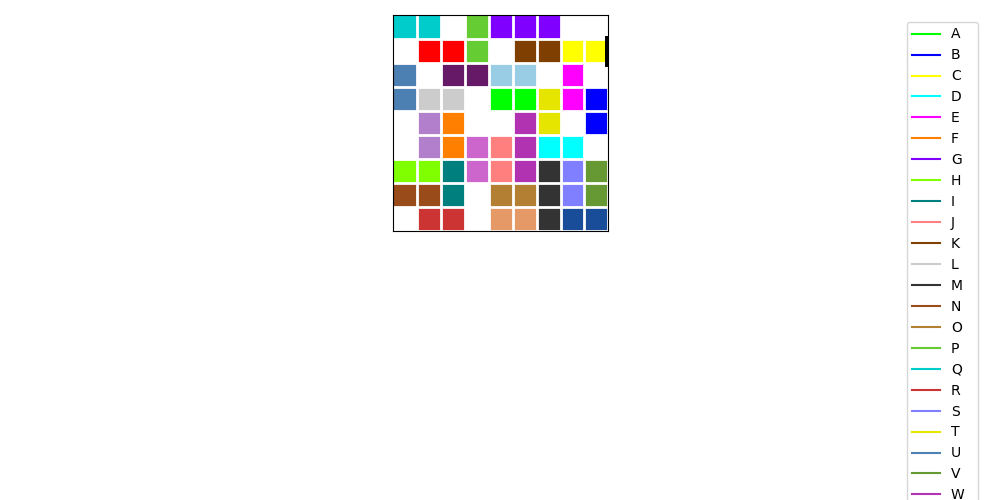
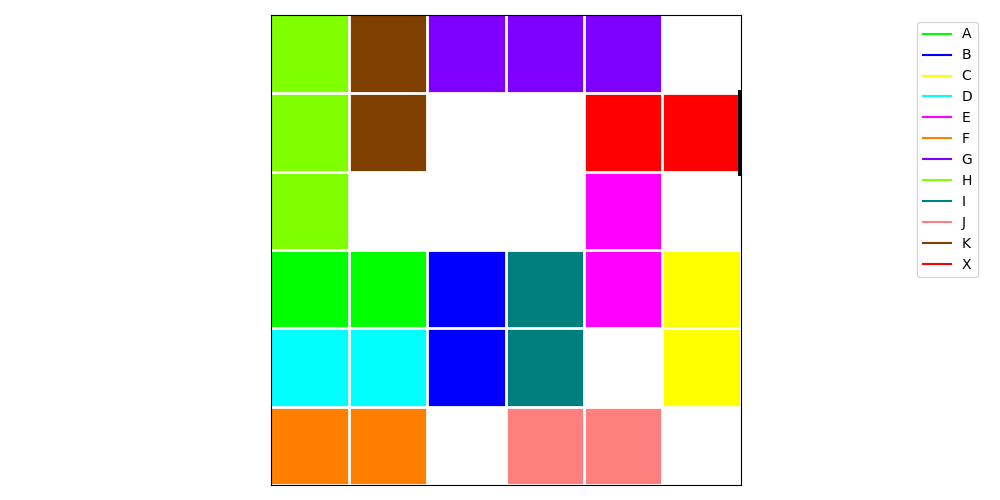
Added method to board_setup to generate random board

diff --git a/code_files/classes/board_setup.py b/code_files/classes/board_setup.py
@@ -1,10 +1,10 @@
 import numpy as np
 import itertools
 import time
+from ..algorithms import randomise
 from ..classes.queue import Queue as Queue
 from ..classes.stack import Stack as Stack
 from ..visualisation.visualize import plot as visualize
-from ..algorithms.randomise import random_step
 from ..algorithms.no_reverse import random_without_reverse
 from ..algorithms.depth_search import depth_search
 
@@ -216,7 +216,7 @@ class Board:
         while not self.is_won():
             #self.print_board()
             iterations += 1
-            name, movement, position = random_step(self)
+            name, movement, position = randomise.random_step(self)
             vehicle = self.find_vehicle(name)
             self.update_positions_set(vehicle, position)
             #time.sleep(0.05)
@@ -264,7 +264,10 @@ class Board:
 
     def astar_solve(self):
         pass
-        
+    
+    def generate_random_board(self, num_cars):
+        df_board_start = randomise.generate_random_board(self.size, num_cars)
+        self.setup_board(df_board_start)
 
     def is_won(self):
         """
@@ -292,5 +295,5 @@ class Board:
         Returns:
         - list: A list representing the RGB color.
         """
-        self.colours = [[0, 1, 0], [0, 0, 1], [1, 1, 0], [0, 1, 1], [1, 0, 1], [1, 0.5, 0], [0.5, 0, 1], [0.5, 1, 0], [0, 0.5, 0.5], [1, 0.5, 0.5], [0.5, 0.25, 0], [0.8, 0.8, 0.8],  [0.2, 0.2, 0.2], [0.6, 0.3, 0.1],  [0.7, 0.5, 0.2], [0.4, 0.8, 0.2], [0, 0.8, 0.8], [0.8, 0.2, 0.2], [0.5, 0.5, 1], [0.9, 0.9, 0], [0.3, 0.5, 0.7],  [0.4, 0.6, 0.2], [0.7, 0.2, 0.7], [0.6, 0.8, 0.9], [0.8, 0.4, 0.8], [0.9, 0.6, 0.4], [0.1, 0.3, 0.6], [0.7, 0.5, 0.8], [0.4, 0.1, 0.4], [0.9, 0.9, 0.5], [0.6, 0.6, 0.6], [0.1, 0.5, 0.3], [0.9, 0.2, 0.5], [0.8, 0.7, 0.1], [0.2, 0.7, 0.4], [0.5, 0.5, 0.7], [0.7, 0.5, 0.5], [0.4, 0.2, 0.6], [0.8, 0.3, 0.3], [0.4, 0.8, 0.7],  [0.8, 0.6, 0.2], [0.1, 0.6, 0.3], [0.9, 0.4, 0.6],[0.3, 0.1, 0.8],[0.5, 0.7, 0.9],]
+        self.colours = [[0, 1, 0], [0, 0, 1], [1, 1, 0], [0, 1, 1], [1, 0, 1], [1, 0.5, 0], [0.5, 0, 1], [0.5, 1, 0], [0, 0.5, 0.5], [1, 0.5, 0.5], [0.5, 0.25, 0], [0.8, 0.8, 0.8],  [0.2, 0.2, 0.2], [0.6, 0.3, 0.1],  [0.7, 0.5, 0.2], [0.4, 0.8, 0.2], [0, 0.8, 0.8], [0.8, 0.2, 0.2], [0.5, 0.5, 1], [0.9, 0.9, 0], [0.3, 0.5, 0.7],  [0.4, 0.6, 0.2], [0.7, 0.2, 0.7], [0.6, 0.8, 0.9], [0.8, 0.4, 0.8], [0.9, 0.6, 0.4], [0.1, 0.3, 0.6], [0.7, 0.5, 0.8], [0.4, 0.1, 0.4], [0.9, 0.9, 0.5], [0.6, 0.6, 0.6], [0.1, 0.5, 0.3], [0.9, 0.2, 0.5], [0.8, 0.7, 0.1], [0.2, 0.7, 0.4], [0.5, 0.5, 0.7], [0.7, 0.5, 0.5], [0.4, 0.2, 0.6], [0.8, 0.3, 0.3], [0.4, 0.8, 0.7],  [0.8, 0.6, 0.2], [0.1, 0.6, 0.3], [0.9, 0.4, 0.6],[0.3, 0.1, 0.8],[0.5, 0.7, 0.9], [0.7, 0.3, 0.5], [0.2, 0.9, 0.5], [0.6, 0.1, 0.9], [0.3, 0.8, 0.1], [0.9, 0.3, 0.2], [0.2, 0.4, 0.9], [0.5, 0.9, 0.3], [0.1, 0.7, 0.8], [0.8, 0.1, 0.1], [0.3, 0.4, 0.5], [0.7, 0.9, 0.4], [0.4, 0.3, 0.3], [0.9, 0.7, 0.7], [0.2, 0.8, 0.6], [0.6, 0.9, 0.8], [0.1, 0.2, 0.3], [0.5, 0.3, 0.9], [0.8, 0.9, 0.1], [0.3, 0.6, 0.8], [0.9, 0.1, 0.9], [0.2, 0.1, 0.7], [0.7, 0.8, 0.3], [0.4, 0.7, 0.1], [0.9, 0.8, 0.6], [0.2, 0.5, 0.8], [0.6, 0.4, 0.3], [0.1, 0.4, 0.8], [0.8, 0.1, 0.6], [0.3, 0.9, 0.9], [0.7, 0.6, 0.9], [0.4, 0.9, 0.9], [0.9, 0.4, 0.1], [0.2, 0.6, 0.5]]
         return self.colours[index]

diff --git a/code_files/algorithms/randomise.py b/code_files/algorithms/randomise.py
@@ -28,7 +28,7 @@ def generate_car_names(num_cars):
     return car_list
 
 
-def place_car(car, col, row, orientation, length, direction, position_array):
+def place_car(car, col, row, orientation, length, direction, position_array, x_col, x_row):
     """
     Places a car on the board.
     Will only place a car if it fits on the board.
@@ -49,10 +49,14 @@ def place_car(car, col, row, orientation, length, direction, position_array):
 
     """
     size = position_array.shape[0]
-    if orientation == 'H' and row == (size - 1) // 2:
-        raise ValueError("Would block X from exiting")
-
     path = length * direction
+    # Horizontal cars can only be placed left of the red car
+    if orientation == 'H' and row == x_row:
+        between_x_and_exit = (col + path + 1) >= x_col + 2 if direction == -1 else (col) >= x_col + 2
+        if between_x_and_exit:
+            raise ValueError("Car cannot be placed between X and exit")
+        
+
     if orientation == 'H':
         start, stop = (col+path+1, col+1) if direction == -1 else (col, col+path)
         in_bounds = start >= 0 if direction == -1 else stop <= size
@@ -119,7 +123,7 @@ def generate_random_board(size, num_cars):
         direction = random.choice(directions)
         
         try:
-            position_array = place_car(name, column, row, orientation, length, direction, position_array)
+            position_array = place_car(name, column, row, orientation, length, direction, position_array, x_col, x_row)
             if direction == 1:
                 initial_state.loc[name] = [orientation, column, row, length]
             elif direction == -1:
@@ -151,6 +155,7 @@ def generate_random_board(size, num_cars):
 
     if errors == 100000:
         print("Could not place all cars on the board")
+    print(position_array)
     return initial_state.dropna()
 
 def random_step(board):

diff --git a/test.py b/test.py
@@ -3,9 +3,8 @@ import numpy as np
 import code_files.algorithms.randomise as randomise
 import code_files.classes.board_setup as setup
 
-
-random_board = randomise.generate_random_board(9, 30)
-
-board = setup.Board(9)
-board.setup_board(random_board)
-board.print_board()
+game = setup.Board(6)
+game.generate_random_board(12)
+game.print_board()
+game.random_solve()
+game.print_board()
